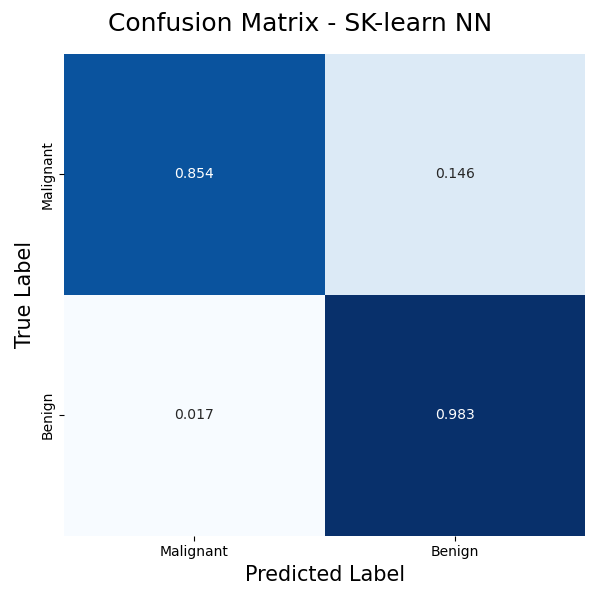
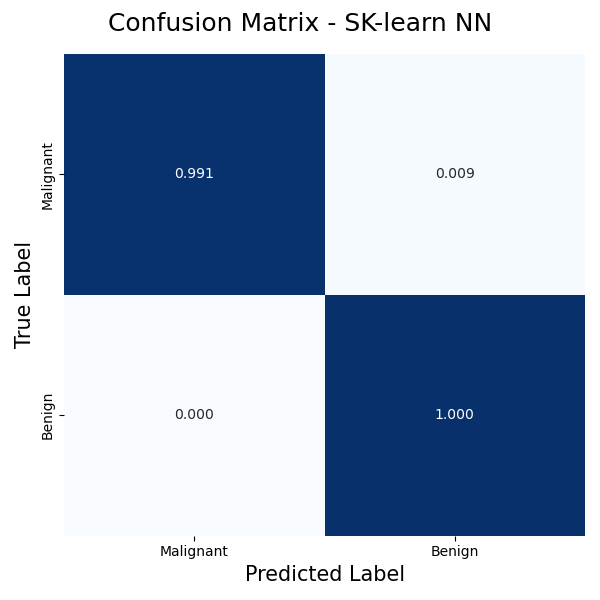
added scaling where it should have been because I am dumb

diff --git a/task_e.py b/task_e.py
@@ -1,5 +1,6 @@
 import numpy as np
 import matplotlib.pyplot as plt
+from sklearn.preprocessing import StandardScaler
 from sklearn.datasets import load_breast_cancer
 from sklearn.metrics import log_loss, confusion_matrix, accuracy_score
 from sklearn.model_selection import  train_test_split 
@@ -168,7 +169,10 @@ if __name__ == "__main__":
     # Sample data
     X, y = load_breast_cancer(return_X_y=True)
     
-    eta_vals = np.logspace(-6, -2, 11)
+    Scaler = StandardScaler()
+    X = Scaler.fit_transform(X)
+    
+    eta_vals = np.logspace(-6, 2, 11)
     eta_vals = np.round(eta_vals, 6)
     lmbd_vals = np.logspace(-6, 1, 11)
     lmbd_vals = np.round(lmbd_vals, 8)
@@ -177,41 +181,33 @@ if __name__ == "__main__":
     for i, eta in enumerate(eta_vals):
         for j, lmb in enumerate(lmbd_vals):
             try:
-                modelGD = LogisticRegression(learning_rate=eta, t1=10, gamma=0, lam=lmb,
-                                           num_iterations=1000, n_epochs=100, 
-                                           m=10, overflow=True
-                                           )
                 modelSGD = LogisticRegression(learning_rate=eta, t1=10, gamma=0, lam=lmb,
                                            num_iterations=1000, n_epochs=100, 
-                                           m=10, overflow=True
+                                           m=30, overflow=True
                                            )
-                modelGD.GDfit(X, y)
                 modelSGD.SGDfit(X, y)
-                predictionsGD = modelGD.predict(X)
                 predictionsSGD = modelSGD.predict(X)
-                accuracy_listGD[i][j] = accuracy_score(y, predictionsGD)
                 accuracy_listSGD[i][j] = accuracy_score(y, predictionsSGD)
             except RuntimeWarning:
                 continue;  
     
-    iGD_max, jGD_max = plot_heatmap(accuracy_listGD.T, lmbd_vals, eta_vals, title='GD (LogReg)', vmin=0.8, saveplot=True, test_lmb=True)
     iSGD_max, jSGD_max = plot_heatmap(accuracy_listSGD.T, lmbd_vals, eta_vals, title='Stochastic GD (LogReg)', vmin=0.8, saveplot=True, test_lmb=True)
 
 
     
-    final_model = LogisticRegression(learning_rate=0.003981, t1=10, gamma=0, lam=1.99526231,
+    final_model = LogisticRegression(learning_rate=100, t1=10, gamma=0, lam=5.01*1e-6,
                                      num_iterations=1000, n_epochs=100, 
                                      m=10, overflow=True
                                      )
     
     final_model.SGDfit(X, y)
     y_predLG = final_model.predict(X)
-    print("Logistic Regression: eta=0.003981, lambda=1.99526231, t1=10, n_epochs=100, m=10")
+    print("Logistic Regression: eta=100, lambda=5.01 * 10^(-6), t1=10, n_epochs=100, m=10")
     print(f"Test set accuracy with Logistic Regression: = {accuracy_score(y, y_predLG):.3f}")
     print(f"log_loss = {log_loss(y, y_predLG):.3f}")
     y = y.reshape(-1, 1)
     y_predLG = y_predLG.reshape(-1, 1)
-    plot_confusion_matrix(y, y_predLG, 'SGD (LogReg)', eta=0.003981, m=10, lmd=1.99526231, logreg_plot=True)
+    plot_confusion_matrix(y, y_predLG, 'SGD (LogReg)', eta=100, m=10, lmd=5.01 * 1e-6, logreg_plot=True)
     print('\n')
 
 
@@ -275,7 +271,6 @@ if __name__ == "__main__":
                 continue;
     
     iNN_max, jNN_max = plot_heatmap(accuracy_listNN.T, lmbd_vals, eta_vals, title='Stochastic GD (NN-LR)', vmin=0.8, saveplot=True, test_lmb=True)
-    
     
     accuracyNN = MLP.fit(X, y, n_batches = 10, n_epochs = 100, eta = 15.848932, t1=10, lmb = 0.000316, delta_mom = 0, method = 'SGD', scale_bool = True, tol = 1e-17)
     y_predNN = accuracyNN[-1]

diff --git a/task_d_OP.py b/task_d_OP.py
@@ -1284,6 +1284,9 @@ if __name__ == "__main__":
     
     from sklearn.neural_network import MLPClassifier
     
+    Scaler = StandardScaler()
+    X = Scaler.fit_transform(X)
+    
     y = y.flatten()
     clf = MLPClassifier(max_iter=10000)
     clf.fit(X, y)
